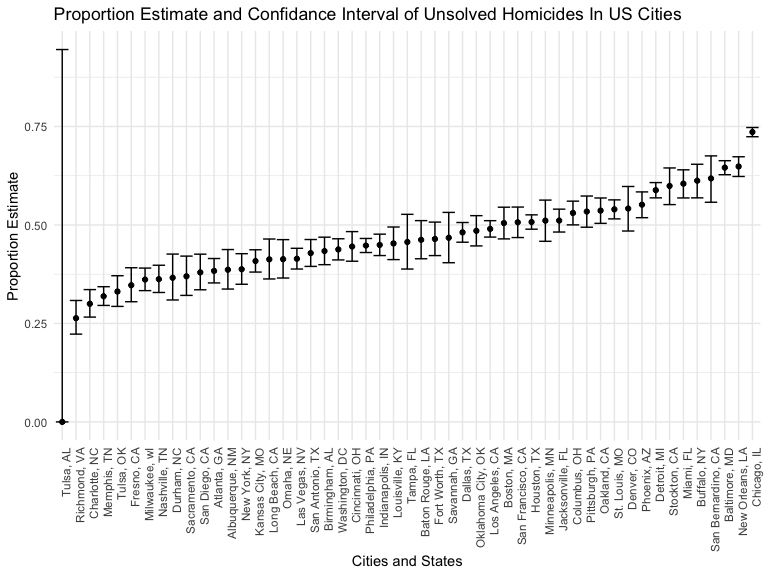
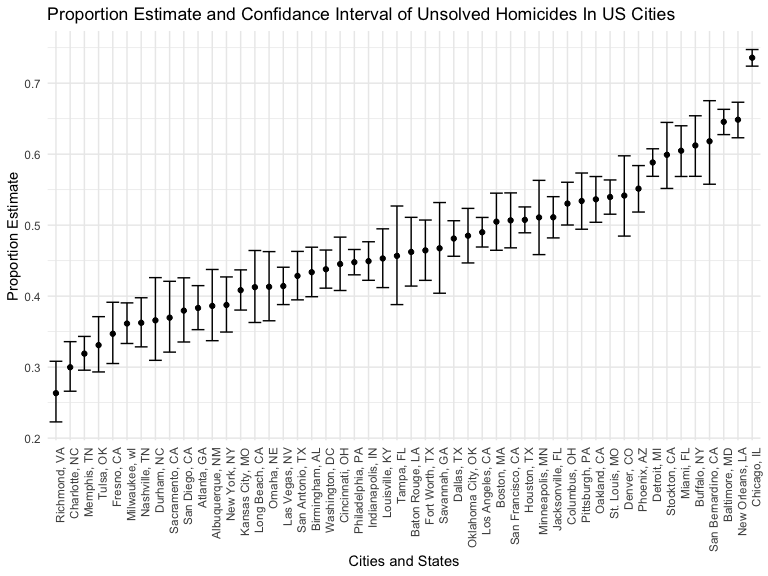
Problem 1: filter out Tulsa, AL

diff --git a/p8105_hw5_tw2918.md b/p8105_hw5_tw2918.md
@@ -48,7 +48,8 @@ homicide_df = read_csv("./data/homicide-data.csv") |>
 
 ``` r
 homicide_df = homicide_df |>
-  mutate(city_state = paste(city, state, sep = ", "))
+  mutate(city_state = paste(city, state, sep = ", "))|>
+  filter(city_state != "Tulsa, AL") 
 
 homicide_disposition = homicide_df|>
   group_by(city_state)|>
@@ -60,7 +61,7 @@ homicide_disposition = homicide_df|>
 print(homicide_disposition)
 ```
 
-    ## # A tibble: 51 × 3
+    ## # A tibble: 50 × 3
     ##    city_state      total_homicides unsolved_homicides
     ##    <chr>                     <int>              <int>
     ##  1 Albuquerque, NM             378                146
@@ -73,7 +74,7 @@ print(homicide_disposition)
     ##  8 Charlotte, NC               687                206
     ##  9 Chicago, IL                5535               4073
     ## 10 Cincinnati, OH              694                309
-    ## # ℹ 41 more rows
+    ## # ℹ 40 more rows
 
 ### For the city of Baltimore, MD, use the prop.test function to estimate the proportion of homicides that are unsolved; save the output of prop.test as an R object, apply the broom::tidy to this object and pull the estimated proportion and confidence intervals from the resulting tidy dataframe.
 
@@ -113,7 +114,7 @@ homicide_city = homicide_disposition |>
 print(homicide_city)
 ```
 
-    ## # A tibble: 51 × 4
+    ## # A tibble: 50 × 4
     ##    city_state      estimate conf.low conf.high
     ##    <chr>              <dbl>    <dbl>     <dbl>
     ##  1 Albuquerque, NM    0.386    0.337     0.438
@@ -126,7 +127,7 @@ print(homicide_city)
     ##  8 Charlotte, NC      0.300    0.266     0.336
     ##  9 Chicago, IL        0.736    0.724     0.747
     ## 10 Cincinnati, OH     0.445    0.408     0.483
-    ## # ℹ 41 more rows
+    ## # ℹ 40 more rows
 
 ### Create a plot that shows the estimates and CIs for each city – check out geom_errorbar for a way to add error bars based on the upper and lower limits. Organize cities according to the proportion of unsolved homicides.
 
